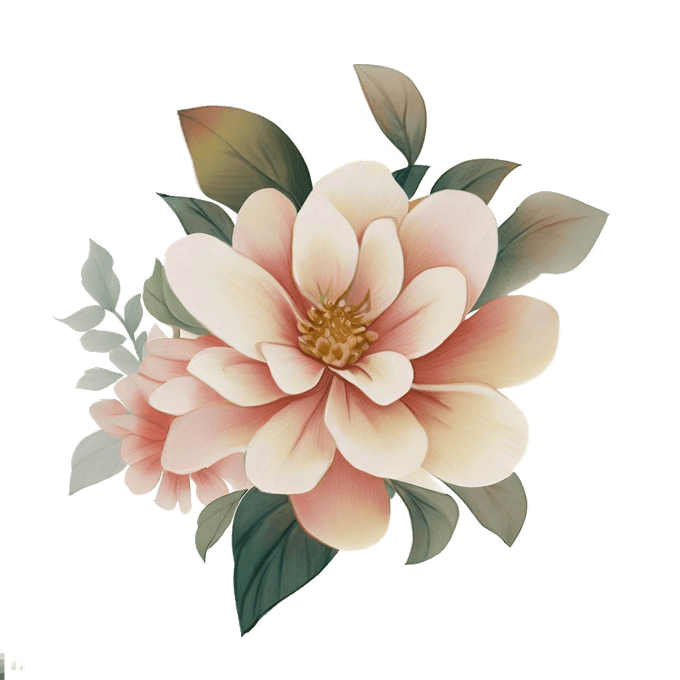
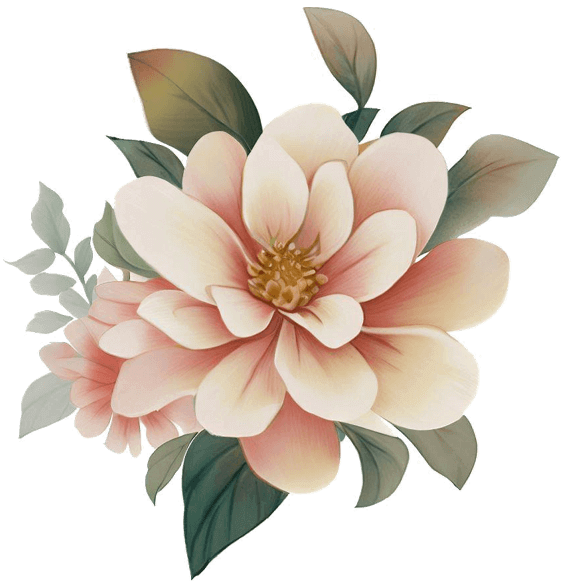
update

diff --git a/templates/17-one-page-personal-website-template-light-flat-micro-i-abc/css/style.css b/templates/17-one-page-personal-website-template-light-flat-micro-i-abc/css/style.css
@@ -1,24 +1,28 @@
 /* v.1.0.0 */
 
-.center4 { min-height: calc(100vh - 120px); }
+html, body { position: relative; margin: 0; }
 
-
+.content {
+display: block;
+padding-top: 30vh;
+text-align: center;
+}
 
 .localBg {
 display: block;
-
-width: 100%;
-max-width: 25vh;
+width: calc(100% - var(--bodyP));
 height: 100%;
+position: absolute;
 overflow: hidden;
-position: fixed;
-z-index: -2;
-top: 5vh;
-right: 10vw;
+top: 0;
+
+z-index: -3;
+
 background-image: url('../img/flower-bing-ai.png');
-background-size: contain;
-background-position: top right;
+background-size: 15vh;
 background-repeat: no-repeat;
+background-position: left 10% top 5%;
+
 
 -webkit-transform: scaleX(-1);
 transform: scaleX(-1);
@@ -27,17 +31,20 @@ transform: scaleX(-1);
 
 .localBg2 {
 display: block;
-
-width: 100%;
-max-width: 45vh;
+width: calc(100% - var(--bodyP));
 height: 100%;
+position: absolute;
+bottom: 0;
 overflow: hidden;
-position: fixed;
+
 z-index: -2;
-bottom: 5vh;
-left: 10vw;
+
 background-image: url('../img/flower-bing-ai.png');
-background-size: contain;
-background-position: bottom left;
+background-size: 27vh;
+background-position: left 5% bottom 5%;
 background-repeat: no-repeat;
 }
+
+
+
+

diff --git a/geany-color.html b/geany-color.html
@@ -156,7 +156,7 @@ document.head.innerHTML += `
 <!-- post -->
 
 <div class="postXL bgList border3List" id="2">
-<span class="pre"><a class="brand" href="geany-color/dark.conf">dark.conf</a> <span class="op">(2,16 KB)</span></span>
+<span class="pre"><a class="brand" href="geany-color/dark.conf">dark.conf</a> <span class="op">(2,17 KB)</span></span>
 <div class="postFooter">
 <span class="postTagList"></span>
 <span class="postTime"></span>
@@ -184,7 +184,7 @@ document.head.innerHTML += `
 <!-- post -->
 
 <div class="postXL bgList border3List" id="4">
-<span class="pre"><a class="brand" href="geany-color/light.conf">light.conf</a> <span class="op">(2,15 KB)</span></span>
+<span class="pre"><a class="brand" href="geany-color/light.conf">light.conf</a> <span class="op">(2,16 KB)</span></span>
 <div class="postFooter">
 <span class="postTagList"></span>
 <span class="postTime"></span>

diff --git a/templates/15-one-page-website-template-auto-dark-flat-mini-i-abc/style.css b/templates/15-one-page-website-template-auto-dark-flat-mini-i-abc/style.css
@@ -1,6 +1,7 @@
 /* v.2.0.1 */
 
 
+
 .content {
 display: flex;
 flex-direction: column;
@@ -18,31 +19,30 @@ overflow: hidden;
 
 display: block;
 height: 100%;
-width: 100%;
+width: calc(100% - var(--bodyP));
 position: absolute;
+overflow: hidden;
 top: 0;
-left: 0;
 z-index: -2;
 
 background-image: url('/img/tpl/circle.svg');
 background-size: 100%;
-background-position: top right;
+background-position: top 0;
 background-repeat: no-repeat;
-overflow: hidden;
 }
 
 .localBg2 {
-
 display: block;
-width: 140px;
+width: calc(100% - var(--bodyP));
 height: 100%;
 position: absolute;
+overflow: hidden;
+bottom: 0;
 z-index: -2;
-bottom: 10vh;
-left: 5vw;
+
 background-image: url('/img/tpl/coffe.svg');
 background-size: 140px;
-background-position: bottom left;
+background-position: bottom 10vh left 5vw;
 background-repeat: no-repeat;
 }
 

diff --git a/index.html b/index.html
@@ -15,7 +15,35 @@
 · 🎮 Games.  
 · 📝 Todo list.  
 · ...">
-<meta name="keywords" content="inonehp, Website Template, New Tab Redirect, Hotkey URL, Firefox Theme, Geany Color, Game, Typing Speed, Todo List, Web Design">
+<meta name="keywords" content="
+inonehp,
+Home Page,
+Website Template,
+Web Design
+New Tab Redirect Abc,
+New Tab Redirect,
+New Tab Redirect extension,
+Hotkey URL Abc,
+Open Website With Keyboard Extension,
+Key to Website,
+Hotkey Extension,
+Firefox Theme Abc,
+Firefox Theme,
+Dark Theme for Firefox,
+Light Theme for Firefox,
+Geany Color Abc,
+Geany Color,
+Geany Theme,
+Game,
+JavaScript Game,
+HTML5 Game,
+Typing Speed,
+Typing Practice,
+Typing Test,
+Typing Speed Test,
+Typing WPM,
+Todo List
+">
 <!--<meta name="author" content="">-->
 
 <meta name="color-scheme" content="light dark">

diff --git a/templates.html b/templates.html
@@ -147,7 +147,7 @@ var blogJsonVar = [
         "text": "One page personal website template light flat micro i abc  ",
         "url": "templates\/17-one-page-personal-website-template-light-flat-micro-i-abc\/index.html",
         "tag": " #one #page #personal #website #template #light #flat #micro #i #abc",
-        "time": "1691638264"
+        "time": "1691657176"
     },
     {
         "id": "16",

diff --git a/templates/17-one-page-personal-website-template-light-flat-micro-i-abc/index.html b/templates/17-one-page-personal-website-template-light-flat-micro-i-abc/index.html
@@ -28,8 +28,9 @@
 <div class="localBg2"></div>
 
 
+
+
 <div class="content">
-<div class="center4">
 
 
 
@@ -38,10 +39,9 @@
 <p>short description</p>
 </div>
 
-</div>
 
 </div>
-</div>
+
 
 
 <div class="op block padding tCenter">2023</div>

diff --git a/css/style.css b/css/style.css
@@ -2,7 +2,7 @@
 
 /*
 html::before {
-width: calc(100vh);
+width: calc(100vw);
 height: calc(100vh);
 content: "";
 opacity: 0.25;

diff --git a/README.md b/README.md
@@ -2,8 +2,8 @@ README.md
 
 ⚪ Projects:  
 📄 Website Templates  
-🛍 Extensions: New Tab Redirect, Hotkey URL  
-🎨 Themes for Firefox, Geany IDE Color  
+🛍 Extensions: New Tab Redirect Abc, Hotkey URL Abc 
+🎨 Themes Abc for Firefox, Geany IDE Color  
 🎮 JavaScript Games: Typing Speed, Snake, Memory Symbol, Tic Tac Toe  
 📝 Todo list  
 ...  
